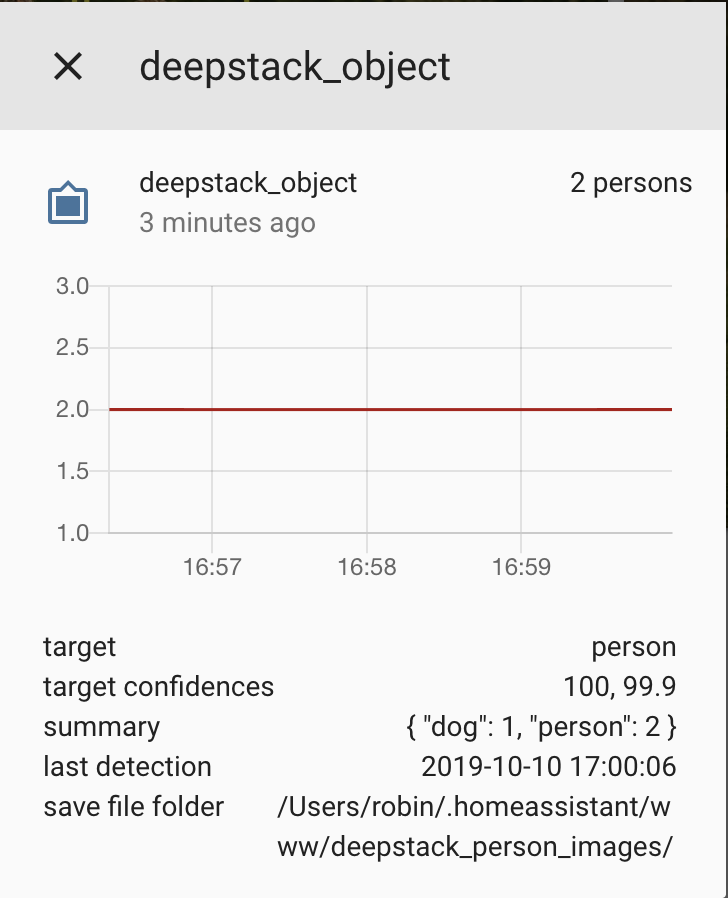
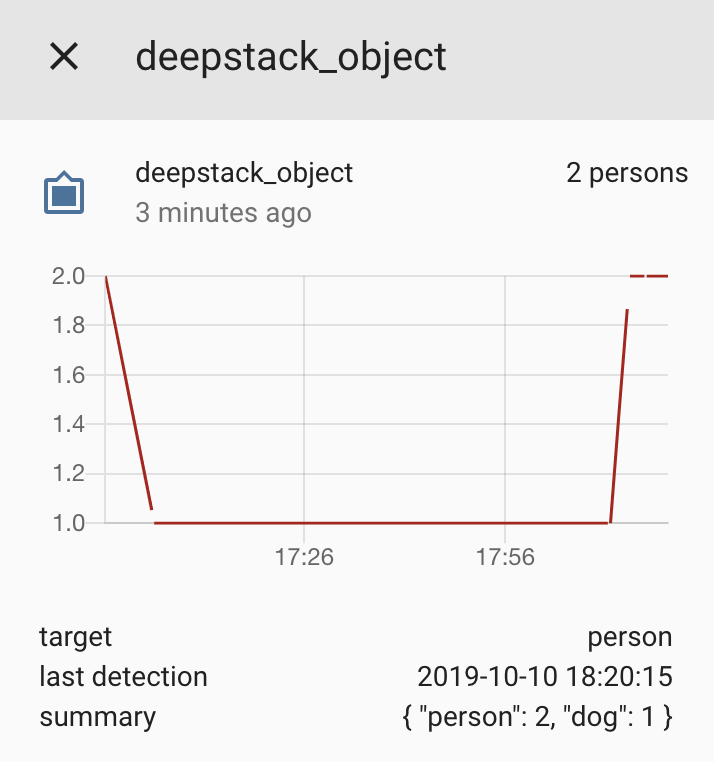
Tidy attributes and remove classifier from events

diff --git a/custom_components/deepstack_object/image_processing.py b/custom_components/deepstack_object/image_processing.py
@@ -42,7 +42,6 @@ from homeassistant.const import (
 
 _LOGGER = logging.getLogger(__name__)
 
-CLASSIFIER = "deepstack_object"
 CONF_API_KEY = "api_key"
 CONF_TARGET = "target"
 CONF_TIMEOUT = "timeout"
@@ -265,7 +264,6 @@ class ObjectClassifyEntity(ImageProcessingEntity):
                 self.hass.bus.fire(
                     EVENT_OBJECT_DETECTED,
                     {
-                        "classifier": CLASSIFIER,
                         ATTR_ENTITY_ID: self.entity_id,
                         OBJECT: prediction["label"],
                         ATTR_CONFIDENCE: ds.format_confidence(prediction["confidence"]),
@@ -275,8 +273,7 @@ class ObjectClassifyEntity(ImageProcessingEntity):
     def fire_saved_file_event(self, save_path):
         """Fire event when saving a file"""
         self.hass.bus.fire(
-            EVENT_FILE_SAVED,
-            {"classifier": CLASSIFIER, ATTR_ENTITY_ID: self.entity_id, FILE: save_path},
+            EVENT_FILE_SAVED, {ATTR_ENTITY_ID: self.entity_id, FILE: save_path}
         )
 
     @property
@@ -307,10 +304,7 @@ class ObjectClassifyEntity(ImageProcessingEntity):
         """Return device specific state attributes."""
         attr = {}
         attr["target"] = self._target
-        attr["target_confidences"] = self._targets_confidences
-        attr["summary"] = self._summary
         if self._last_detection:
             attr["last_detection"] = self._last_detection.strftime("%Y-%m-%d %H:%M:%S")
-        if hasattr(self, "_save_file_folder"):
-            attr["save_file_folder"] = self._save_file_folder
+        attr["summary"] = self._summary
         return attr

diff --git a/README.md b/README.md
@@ -70,9 +70,8 @@ Configuration variables:
 </p>
 
 #### Event `image_processing.object_detected`
-An event `image_processing.object_detected` is fired for each object detected above the configured `confidence` threshold. An example use case for this is incrementing a [counter](https://www.home-assistant.io/components/counter/) when a person is detected. The `image_processing.object_detected` event payload includes:
+An event `image_processing.object_detected` is fired for each object detected above the configured `confidence` threshold. This is the recommended way to check the confidence of detections, and to keep track of objects that are not configured as the `target` (configure logger level to `debug` to observe events in the Home Assistant logs). An example use case for event is to get an alert when some rarely appearing object is detected, or to increment a [counter](https://www.home-assistant.io/components/counter/). The `image_processing.object_detected` event payload includes:
 
-- `classifier` : the classifier (i.e. `deepstack_object`)
 - `entity_id` : the entity id responsible for the event
 - `object` : the object detected
 - `confidence` : the confidence in detection in the range 0 - 1 where 1 is 100% confidence.
@@ -98,7 +97,6 @@ An example automation using the `image_processing.object_detected` event is give
 #### Event `image_processing.file_saved`
 If `save_file_folder` is configured, an new image will be saved with bounding boxes of detected `target` objects, and the filename will include the time of the image capture. On saving this image a `image_processing.file_saved` event is fired, with a payload that includes:
 
-- `classifier` : the classifier (i.e. `deepstack_object`)
 - `entity_id` : the entity id responsible for the event
 - `file` : the full path to the saved file
 
